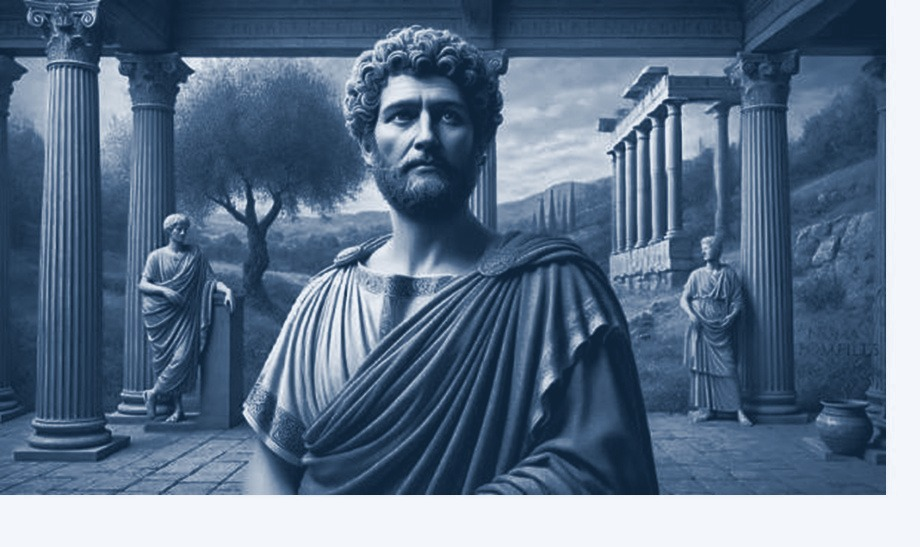
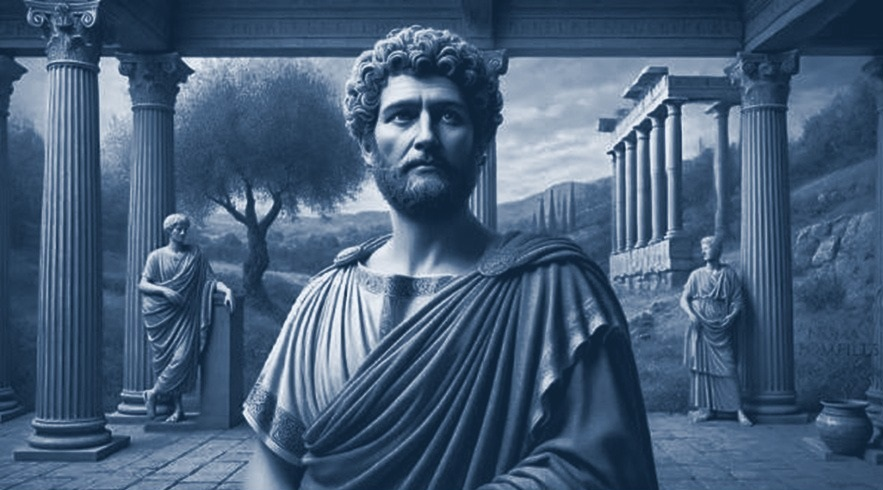
Cambio de pagina principal

diff --git a/frontend/src/components/public/PublicNavbar.tsx b/frontend/src/components/public/PublicNavbar.tsx
@@ -11,10 +11,6 @@ export default function PublicNavbar() {
   const [open, setOpen] = useState(false);
   const [sedes, setSedes] = useState<any[]>([]);
   const [openSedes, setOpenSedes] = useState(false);
-  // Arriba del todo (sobre el banner de fotos) el menú va claro, con letras
-  // azules; apenas se hace scroll pasa a oscuro con letras blancas, como
-  // estaba antes. Así no se siente todo "un bloque azul" desde el inicio.
-  const [scrolled, setScrolled] = useState(false);
 
   const sedesRef = useRef<HTMLDivElement>(null);
 
@@ -23,13 +19,6 @@ export default function PublicNavbar() {
       .get('/sedes')
       .then((res) => setSedes(res.data))
       .catch(() => setSedes([]));
-  }, []);
-
-  useEffect(() => {
-    const handleScroll = () => setScrolled(window.scrollY > 40);
-    handleScroll();
-    window.addEventListener('scroll', handleScroll, { passive: true });
-    return () => window.removeEventListener('scroll', handleScroll);
   }, []);
 
   useEffect(() => {
@@ -73,32 +62,18 @@ export default function PublicNavbar() {
   }, {});
 
   return (
-    <nav
-      className={`fixed top-0 left-0 right-0 z-50 backdrop-blur-sm border-b transition-colors duration-300 ${
-        scrolled
-          ? 'bg-numa-950/95 border-numa-800'
-          : 'bg-white/95 border-numa-100'
-      }`}
-    >
+    <nav className="fixed top-0 left-0 right-0 z-50 bg-[#0B141C]/95 backdrop-blur-sm border-b border-numa-800">
       {/* Barra de contacto — siempre visible, sin necesidad de bajar hasta el pie de página */}
-      <div
-        className={`hidden sm:block border-b transition-colors duration-300 ${
-          scrolled ? 'bg-numa-900 border-numa-800' : 'bg-numa-50 border-numa-100'
-        }`}
-      >
+      <div className="hidden sm:block bg-[#101D28] border-b border-numa-800">
         <div className="max-w-7xl mx-auto px-4 sm:px-6 lg:px-8">
-          <div
-            className={`flex items-center justify-between h-12 text-sm transition-colors duration-300 ${
-              scrolled ? 'text-white' : 'text-numa-800'
-            }`}
-          >
+          <div className="flex items-center justify-between h-12 text-sm text-white">
             <div className="flex items-center gap-7">
-              <span className="flex items-center gap-2">
+              <span className="flex items-center gap-2 text-white">
                 <Phone className="w-4 h-4" />
                 0981790092
               </span>
 
-              <span className="flex items-center gap-2">
+              <span className="flex items-center gap-2 text-white">
                 <Mail className="w-4 h-4" />
                 numamediacionec@hotmail.com
               </span>
@@ -108,7 +83,7 @@ export default function PublicNavbar() {
               href="https://wa.me/593981790092?text=Hola%2C%20quisiera%20informaci%C3%B3n%20sobre%20mediaci%C3%B3n"
               target="_blank"
               rel="noopener noreferrer"
-              className="flex items-center gap-2 text-green-600 hover:text-green-500 transition-colors font-medium"
+              className="flex items-center gap-2 text-green-400 hover:text-green-300 transition-colors font-medium"
             >
               <WhatsAppIcon className="w-4 h-4" />
               WhatsApp
@@ -120,16 +95,7 @@ export default function PublicNavbar() {
       <div className="max-w-7xl mx-auto px-4 sm:px-6 lg:px-8">
         <div className="flex items-center justify-between h-20">
           <Link href="/" className="flex items-center">
-            {/* Mientras el navbar es blanco, el logo (que trae fondos oscuros
-                en 2 de sus 3 variantes) va sobre un chip oscuro para que
-                siempre se lea bien, sin importar cuál variante esté activa. */}
-            <span
-              className={`inline-flex items-center rounded-sm transition-colors duration-300 ${
-                scrolled ? '' : 'bg-numa-950 p-1.5'
-              }`}
-            >
-              <RotatingLogo className="h-14 w-40 sm:h-16 sm:w-48" />
-            </span>
+            <RotatingLogo className="h-14 w-40 sm:h-16 sm:w-48" />
           </Link>
 
           <div className="hidden md:flex items-center gap-8">
@@ -138,9 +104,7 @@ export default function PublicNavbar() {
                 <a
                   key={item}
                   href={`/#${item.toLowerCase()}`}
-                  className={`text-sm transition-colors duration-200 tracking-wide hover:text-gold-500 ${
-                    scrolled ? 'text-white hover:text-gold-400' : 'text-numa-800'
-                  }`}
+                  className="text-sm text-white hover:text-gold-400 transition-colors duration-200 tracking-wide"
                 >
                   {item}
                 </a>
@@ -153,11 +117,7 @@ export default function PublicNavbar() {
               <button
                 type="button"
                 onClick={() => setOpenSedes((prev) => !prev)}
-                className={`px-5 py-2 text-sm font-medium rounded-sm transition-colors duration-200 tracking-wide inline-flex items-center gap-1 border ${
-                  scrolled
-                    ? 'text-white border-white/20 hover:border-gold-400 hover:text-gold-400'
-                    : 'text-numa-800 border-numa-200 hover:border-gold-500 hover:text-gold-600'
-                }`}
+                className="px-5 py-2 text-sm font-medium text-white border border-white/20 rounded-sm hover:border-gold-400 hover:text-gold-400 transition-colors duration-200 tracking-wide inline-flex items-center gap-1"
               >
                 Sedes
                 <ChevronDown className="w-4 h-4" />
@@ -227,9 +187,7 @@ export default function PublicNavbar() {
 
           <button
             onClick={() => setOpen((prev) => !prev)}
-            className={`md:hidden p-2 hover:text-gold-400 transition-colors duration-200 ${
-              scrolled ? 'text-white' : 'text-numa-800'
-            }`}
+            className="md:hidden p-2 text-white hover:text-gold-400"
           >
             {open ? <X className="w-5 h-5" /> : <Menu className="w-5 h-5" />}
           </button>
@@ -237,22 +195,14 @@ export default function PublicNavbar() {
       </div>
 
       {open && (
-        <div
-          className={`md:hidden border-t px-4 pb-4 pt-2 space-y-2 transition-colors duration-300 ${
-            scrolled
-              ? 'bg-numa-950 border-numa-800'
-              : 'bg-white border-numa-100'
-          }`}
-        >
+        <div className="md:hidden bg-[#0B141C] border-t border-numa-800 px-4 pb-4 pt-2 space-y-2">
           {['Nosotros', 'Misión', 'Valores', 'Servicios', 'Contacto'].map(
             (item) => (
               <a
                 key={item}
                 href={`/#${item.toLowerCase()}`}
                 onClick={() => setOpen(false)}
-                className={`block py-2 text-sm hover:text-gold-400 ${
-                  scrolled ? 'text-white' : 'text-numa-800'
-                }`}
+                className="block py-2 text-sm text-white hover:text-gold-400"
               >
                 {item}
               </a>
@@ -262,9 +212,7 @@ export default function PublicNavbar() {
           <button
             type="button"
             onClick={() => setOpenSedes((prev) => !prev)}
-            className={`w-full flex items-center justify-between py-2 text-sm hover:text-gold-400 ${
-              scrolled ? 'text-white' : 'text-numa-800'
-            }`}
+            className="w-full flex items-center justify-between py-2 text-sm text-white hover:text-gold-400"
           >
             Sedes
             <ChevronDown className="w-4 h-4" />

diff --git a/frontend/src/app/page.tsx b/frontend/src/app/page.tsx
@@ -139,8 +139,10 @@ export default function HomePage() {
           la misma foto, ampliada, rellena los bordes para que no queden
           franjas vacías — así no se pierde nada de la imagen original. */}
       <section className="relative min-h-[640px] sm:min-h-[720px] lg:min-h-[820px] flex items-center overflow-hidden">
-        {/* Carrusel de fondo, a todo lo ancho y alto de la sección */}
-        <div className="absolute inset-0 bg-numa-950">
+        {/* Carrusel de fondo, a todo lo ancho y alto de la sección.
+            Tono oscuro neutro (no el azul intenso de numa-950) para que el
+            fondo no se sienta "muy azulado". */}
+        <div className="absolute inset-0 bg-[#0B141C]">
           {heroImages.map((img, i) => (
             <div
               key={img.src}
@@ -175,9 +177,9 @@ export default function HomePage() {
           ))}
 
           {/* Degradado leve, solo para que el texto de la izquierda se lea
-              bien — ya no oscurece toda la foto. */}
-          <div className="absolute inset-0 bg-gradient-to-r from-numa-950/75 via-numa-950/25 to-transparent" />
-          <div className="absolute inset-0 bg-gradient-to-t from-numa-950/60 via-transparent to-numa-950/10" />
+              bien — ya no oscurece toda la foto. Tono neutro, no azulado. */}
+          <div className="absolute inset-0 bg-gradient-to-r from-[#0B141C]/75 via-[#0B141C]/25 to-transparent" />
+          <div className="absolute inset-0 bg-gradient-to-t from-[#0B141C]/60 via-transparent to-[#0B141C]/10" />
         </div>
 
         {/* Top line */}
@@ -233,6 +235,49 @@ export default function HomePage() {
         </div>
       </section>
 
+      {/* NUMA POMPILIO — símbolo histórico detrás del nombre del centro.
+          Va justo debajo del banner de fotos (antes de "Quiénes somos"),
+          como una franja informativa chica — no una sección a página
+          completa — con la foto más reducida. */}
+      <section id="numa-pompilio" className="py-10 bg-white border-b border-numa-100">
+        <div className="max-w-5xl mx-auto px-4 sm:px-6 lg:px-8">
+          <div className="grid grid-cols-1 sm:grid-cols-[150px_1fr] gap-5 sm:gap-8 items-center">
+            <div className="relative mx-auto sm:mx-0 w-32 sm:w-full rounded-sm overflow-hidden shadow-md border border-numa-200">
+              <Image
+                src="/images/numa-pompilio.jpg"
+                alt="Numa Pompilio, segundo rey de Roma, símbolo histórico de la mediación"
+                width={360}
+                height={420}
+                className="w-full h-auto object-cover"
+              />
+            </div>
+
+            <div className="text-center sm:text-left">
+              <div className="flex items-center justify-center sm:justify-start gap-2 mb-2">
+                <div className="h-px w-6 bg-gold-400" />
+
+                <span className="text-gold-600 text-xs uppercase tracking-[0.2em] font-sans">
+                  El origen de nuestro nombre
+                </span>
+              </div>
+
+              <h2 className="text-xl sm:text-2xl font-bold text-numa-900 mb-2 leading-tight">
+                Numa Pompilio, símbolo de mediador
+              </h2>
+
+              <p className="text-sm text-numa-600 leading-relaxed">
+                Numa Pompilio (c. 753-674 a.C.) fue el segundo rey de Roma,
+                sucesor de Rómulo, reconocido como un monarca sabio, religioso
+                y pacífico. Como símbolo de mediador, se destacó por
+                establecer la paz con pueblos vecinos, reformar el calendario
+                y organizar la religión romana, priorizando la diplomacia
+                sobre la guerra.
+              </p>
+            </div>
+          </div>
+        </div>
+      </section>
+
       {/* NOSOTROS */}
       <section id="nosotros" className="py-24 bg-white">
         <div className="max-w-7xl mx-auto px-4 sm:px-6 lg:px-8">
@@ -282,48 +327,6 @@ export default function HomePage() {
                   </div>
                 </div>
               ))}
-            </div>
-          </div>
-        </div>
-      </section>
-
-      {/* NUMA POMPILIO — símbolo histórico detrás del nombre del centro */}
-      <section id="numa-pompilio" className="py-24 bg-white">
-        <div className="max-w-7xl mx-auto px-4 sm:px-6 lg:px-8">
-          <div className="grid grid-cols-1 lg:grid-cols-2 gap-16 items-center">
-            <div className="relative mx-auto w-full max-w-md lg:max-w-none order-2 lg:order-1">
-              <div className="relative rounded-sm overflow-hidden shadow-2xl border border-numa-200">
-                <Image
-                  src="/images/numa-pompilio.jpg"
-                  alt="Numa Pompilio, segundo rey de Roma, símbolo histórico de la mediación"
-                  width={900}
-                  height={1000}
-                  className="w-full h-[320px] sm:h-[380px] object-cover"
-                />
-              </div>
-            </div>
-
-            <div className="order-1 lg:order-2">
-              <div className="flex items-center gap-2 mb-4">
-                <div className="h-px w-8 bg-gold-400" />
-
-                <span className="text-gold-600 text-xs uppercase tracking-[0.2em] font-sans">
-                  El origen de nuestro nombre
-                </span>
-              </div>
-
-              <h2 className="text-4xl font-bold text-numa-900 mb-6 leading-tight">
-                Numa Pompilio, símbolo de mediador
-              </h2>
-
-              <p className="text-numa-600 leading-relaxed">
-                Numa Pompilio (c. 753-674 a.C.) fue el segundo rey de Roma,
-                sucesor de Rómulo, reconocido como un monarca sabio, religioso
-                y pacífico. Como símbolo de mediador, se destacó por
-                establecer la paz con pueblos vecinos, reformar el calendario
-                y organizar la religión romana, priorizando la diplomacia
-                sobre la guerra.
-              </p>
             </div>
           </div>
         </div>

diff --git a/frontend/src/components/public/PublicFooter.tsx b/frontend/src/components/public/PublicFooter.tsx
@@ -7,7 +7,7 @@ export default function PublicFooter() {
   return (
 <footer
   id="contacto-footer"
-  className="bg-numa-950 text-white border-t border-numa-900"
+  className="bg-[#0B141C] text-white border-t border-numa-900"
 >      
         <div className="max-w-7xl mx-auto px-4 sm:px-6 lg:px-8 py-14">
         <div className="grid grid-cols-1 md:grid-cols-4 gap-10">
